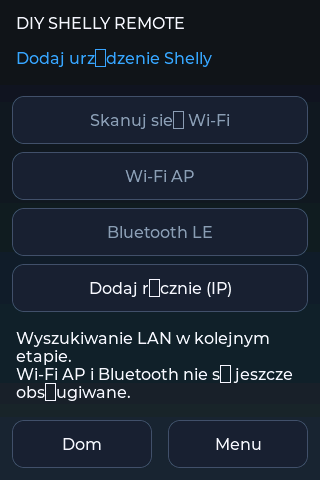
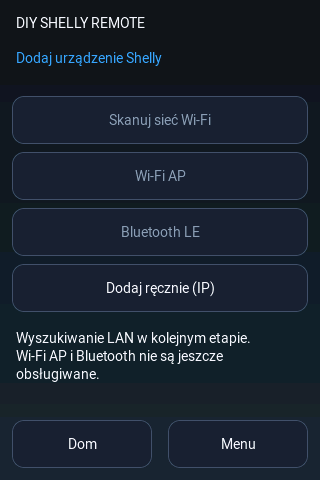
Correct Roboto glyph inheritance and keyboard symbols in standalone UI review
Backport the verified font correction from LAN work; regenerate native onboarding frames and test diacritics.

diff --git a/components/dsr_ui/dsr_ui.c b/components/dsr_ui/dsr_ui.c
@@ -23,6 +23,7 @@ lv_obj_t *dsr_ui_label(lv_obj_t *parent, const char *text, int x, int y, int wid
     lv_obj_set_width(obj, width);
     lv_label_set_long_mode(obj, LV_LABEL_LONG_MODE_WRAP);
     lv_obj_set_style_text_color(obj, lv_color_hex(0xf0f4fb), 0);
+    lv_obj_set_style_text_font(obj, &dsr_roboto_14, 0);
     return obj;
 }
 
@@ -46,6 +47,7 @@ lv_obj_t *dsr_ui_button(lv_obj_t *parent, const char *text, int x, int y, int wi
     lv_obj_set_style_color_filter_opa(obj, LV_OPA_TRANSP, LV_STATE_DISABLED);
     lv_obj_set_style_radius(obj, 12, 0);
     lv_obj_t *caption = lv_label_create(obj);
+    lv_obj_set_style_text_font(caption, &dsr_roboto_14, 0);
     dsr_sc_label_set_text(caption, dsr_sc_tr(text));
     lv_obj_center(caption);
     if (callback) lv_obj_add_event_cb(obj, callback, LV_EVENT_CLICKED, context);
@@ -61,6 +63,7 @@ void dsr_ui_primary(lv_obj_t *obj)
 
 void dsr_ui_textarea(lv_obj_t *obj)
 {
+    lv_obj_set_style_text_font(obj, &dsr_roboto_14, 0);
     lv_obj_set_style_bg_color(obj, lv_color_hex(0x152132), 0);
     lv_obj_set_style_text_color(obj, lv_color_hex(0xf0f4fb), 0);
     lv_obj_set_style_text_color(obj, lv_color_hex(0x98aac0), LV_PART_TEXTAREA_PLACEHOLDER);
@@ -73,6 +76,7 @@ void dsr_ui_textarea(lv_obj_t *obj)
 
 void dsr_ui_keyboard(lv_obj_t *obj)
 {
+    lv_obj_set_style_text_font(obj, &dsr_roboto_14, LV_PART_ITEMS);
     lv_obj_set_style_bg_color(obj, lv_color_hex(0x111b29), 0);
     lv_obj_set_style_pad_all(obj, 3, 0);
     lv_obj_set_style_pad_gap(obj, 4, 0);
@@ -95,6 +99,7 @@ lv_obj_t *dsr_ui_screen(const char *title, bool navigation)
     lv_obj_clean(root);
     lv_obj_set_style_bg_color(root, lv_color_hex(BG), 0);
     lv_obj_set_style_text_color(root, lv_color_hex(0xf0f4fb), 0);
+    lv_obj_set_style_text_font(root, &dsr_roboto_14, 0);
     lv_obj_set_style_pad_all(root, 0, 0);
     lv_obj_remove_flag(root, LV_OBJ_FLAG_SCROLLABLE);
     dsr_ui_label(root, "DIY SHELLY REMOTE", 16, 14, 288);
@@ -215,4 +220,10 @@ static void hardware(lv_event_t *event)
     dsr_ui_label(root, "ES3C35P / 320 x 480", 16, 390, 288);
 }
 
-void dsr_ui_init(void) { dsr_network_init(); dsr_network_start_view(); }
+void dsr_ui_init(void)
+{
+    lv_display_t *display=lv_display_get_default();
+    lv_theme_t *theme=lv_theme_default_init(display,dsr_sc_color(DSR_SC_BLUE),dsr_sc_color(DSR_SC_BLUE),true,&dsr_roboto_14);
+    lv_display_set_theme(display,theme);
+    dsr_network_init();dsr_network_start_view();
+}

diff --git a/tools/render_review.py b/tools/render_review.py
@@ -23,7 +23,13 @@ if not args.no_run:
     subprocess.run(["python3", str(ROOT / "tools/test_ui.py"), "--review"], check=True)
 out = args.out.resolve()
 out.mkdir(parents=True, exist_ok=True)
-source = ROOT / "build-ui/review-native/screenshots"
+def latest_frames(names):
+    directories=[ROOT / 'build-ui' / name / 'screenshots' for name in names]
+    directories=[d for d in directories if list(d.glob('*.ppm'))]
+    assert directories, 'Run the native LVGL tests before exporting'
+    return max(directories,key=lambda d:max(p.stat().st_mtime_ns for p in d.glob('*.ppm')))
+
+source = latest_frames(['review-native','review-ubsan','review-asan'])
 
 def chunk(kind, data):
     return struct.pack(">I", len(data)) + kind + data + struct.pack(">I", zlib.crc32(kind + data) & 0xffffffff)
@@ -43,9 +49,7 @@ for path in sorted(source.glob("*.ppm")):
     frames[path.stem] = rgb
     png(out / (path.stem + ".png"), 320, 480, rgb)
 assert len(frames) >= 13
-onboarding = ROOT / "build-ui/native/screenshots"
-if not onboarding.exists():
-    onboarding = ROOT / "build-ui/asan/screenshots"
+onboarding = latest_frames(['native','ubsan','asan'])
 for original, name in [("02-network-list", "20-fixture-wifi-list"), ("03-password-keyboard", "21-fixture-wifi-keyboard"), ("14-add-device-wizard", "22-fixture-add-wizard")]:
     path = onboarding / (original + ".ppm")
     if path.exists():

diff --git a/tests/ui/test_ui_review.c b/tests/ui/test_ui_review.c
@@ -146,6 +146,8 @@ int main(int argc,char **argv)
   memset(fixture.rooms[i].photo,(int)('1'+i),32);fixture.rooms[i].photo[32]=0;
  }photo_enabled=true;
  check_icon_alignment();save_icon_atlas();
+ const uint32_t letters[]={0x105,0x119,0x142,0x144,0x15b,0x17a,0x17c,0xf3,0xe4,0xf6,0xfc,0xdf,0xf00c};
+ for(unsigned i=0;i<sizeof(letters)/sizeof(letters[0]);i++){lv_font_glyph_dsc_t glyph;CHECK(lv_font_get_glyph_dsc(&dsr_roboto_14,&glyph,letters[i],0));}
  const dsr_mobile_actions_t actions={.set_output=set_output,.open_settings=noop,.add_device=noop};dsr_mobile_bind(&actions);
  dsr_mobile_update(&fixture);dsr_mobile_show(DSR_MOBILE_HOME,0);save("01-home");
  CHECK(find(lv_screen_active(),"Światło w salonie"));

diff --git a/tools/build_ui_fonts.py b/tools/build_ui_fonts.py
@@ -20,3 +20,5 @@ for size, weight in [(11,"Regular"),(12,"Regular"),(14,"Regular"),(16,"Medium"),
                     "--size", str(size), "--bpp", "4", "--format", "lvgl", "--no-compress",
                     "--range", "0x20-0x7e", "--symbols", symbols, "--lv-include", "lvgl.h",
                     "--lv-font-name", name, "-o", str(dest / f"{name}.c")], check=True, env=env)
+    file = dest / f"{name}.c"
+    file.write_text(file.read_text().replace(".fallback = NULL", ".fallback = LV_FONT_DEFAULT"))

diff --git a/components/dsr_ui/fonts/dsr_roboto_11.c b/components/dsr_ui/fonts/dsr_roboto_11.c
@@ -1228,7 +1228,7 @@ lv_font_t dsr_roboto_11 = {
 #endif
     .dsc = &font_dsc,          /*The custom font data. Will be accessed by `get_glyph_bitmap/dsc` */
 #if LV_VERSION_CHECK(8, 2, 0) || LVGL_VERSION_MAJOR >= 9
-    .fallback = NULL,
+    .fallback = LV_FONT_DEFAULT,
 #endif
     .user_data = NULL,
 };

diff --git a/components/dsr_ui/fonts/dsr_roboto_12.c b/components/dsr_ui/fonts/dsr_roboto_12.c
@@ -1325,7 +1325,7 @@ lv_font_t dsr_roboto_12 = {
 #endif
     .dsc = &font_dsc,          /*The custom font data. Will be accessed by `get_glyph_bitmap/dsc` */
 #if LV_VERSION_CHECK(8, 2, 0) || LVGL_VERSION_MAJOR >= 9
-    .fallback = NULL,
+    .fallback = LV_FONT_DEFAULT,
 #endif
     .user_data = NULL,
 };

diff --git a/components/dsr_ui/fonts/dsr_roboto_14.c b/components/dsr_ui/fonts/dsr_roboto_14.c
@@ -1459,7 +1459,7 @@ lv_font_t dsr_roboto_14 = {
 #endif
     .dsc = &font_dsc,          /*The custom font data. Will be accessed by `get_glyph_bitmap/dsc` */
 #if LV_VERSION_CHECK(8, 2, 0) || LVGL_VERSION_MAJOR >= 9
-    .fallback = NULL,
+    .fallback = LV_FONT_DEFAULT,
 #endif
     .user_data = NULL,
 };

diff --git a/components/dsr_ui/fonts/dsr_roboto_16.c b/components/dsr_ui/fonts/dsr_roboto_16.c
@@ -1613,7 +1613,7 @@ lv_font_t dsr_roboto_16 = {
 #endif
     .dsc = &font_dsc,          /*The custom font data. Will be accessed by `get_glyph_bitmap/dsc` */
 #if LV_VERSION_CHECK(8, 2, 0) || LVGL_VERSION_MAJOR >= 9
-    .fallback = NULL,
+    .fallback = LV_FONT_DEFAULT,
 #endif
     .user_data = NULL,
 };

diff --git a/components/dsr_ui/fonts/dsr_roboto_18.c b/components/dsr_ui/fonts/dsr_roboto_18.c
@@ -1780,7 +1780,7 @@ lv_font_t dsr_roboto_18 = {
 #endif
     .dsc = &font_dsc,          /*The custom font data. Will be accessed by `get_glyph_bitmap/dsc` */
 #if LV_VERSION_CHECK(8, 2, 0) || LVGL_VERSION_MAJOR >= 9
-    .fallback = NULL,
+    .fallback = LV_FONT_DEFAULT,
 #endif
     .user_data = NULL,
 };

diff --git a/components/dsr_ui/fonts/dsr_roboto_28.c b/components/dsr_ui/fonts/dsr_roboto_28.c
@@ -2899,7 +2899,7 @@ lv_font_t dsr_roboto_28 = {
 #endif
     .dsc = &font_dsc,          /*The custom font data. Will be accessed by `get_glyph_bitmap/dsc` */
 #if LV_VERSION_CHECK(8, 2, 0) || LVGL_VERSION_MAJOR >= 9
-    .fallback = NULL,
+    .fallback = LV_FONT_DEFAULT,
 #endif
     .user_data = NULL,
 };

diff --git a/PROJECT_STATUS.md b/PROJECT_STATUS.md
@@ -2,6 +2,11 @@
 
 ## Issue #6 — rounded icon family and configurable photographic HOME
 
+Follow-up: native labels/forms/dropdowns use the licensed Roboto font explicitly,
+including Polish/German glyphs and LVGL keyboard-symbol fallback. 2400 review
+checks (13 glyph checks added), 330 integrated checks and real native frames
+pass with UBSan. This correction is also present in the stacked LAN branch.
+
 2026-10-15: branch `work/issue-6-visual-system`, based on PR #5's reviewed
 `5f6a653`. Source version `0.4.1-ui-review`. Dedicated draft PR; no main merge.
 Replaced the diagnostic line/arc icon renderer with 24 Apache-2.0 Material

diff --git a/docs/ISSUE6_UI.md b/docs/ISSUE6_UI.md
@@ -3,6 +3,10 @@
 This is a development proposal, `0.4.1-ui-review`, stacked on PR #5. Do not merge
 or mark stable before visual acceptance and the physical tests below.
 
+Native forms and dropdowns explicitly inherit Roboto with Polish/German glyphs
+and LVGL symbol fallback. Regression coverage checks diacritics and the keyboard
+checkmark; the onboarding renders are generated from this corrected code.
+
 | Token | Value / behavior |
 | --- | --- |
 | Canvas / card | #101A22 / #323638 rooms; #41474B–#3C4246 devices |
